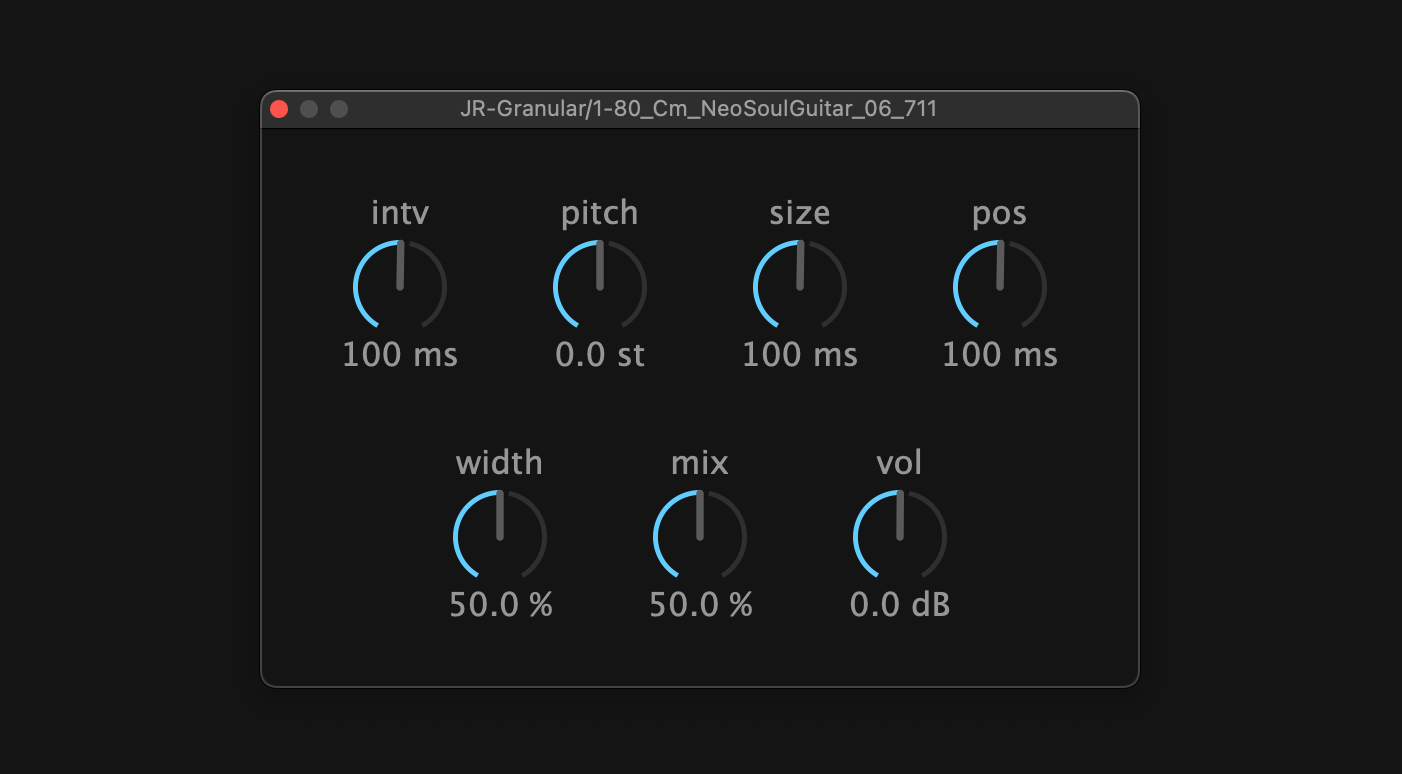
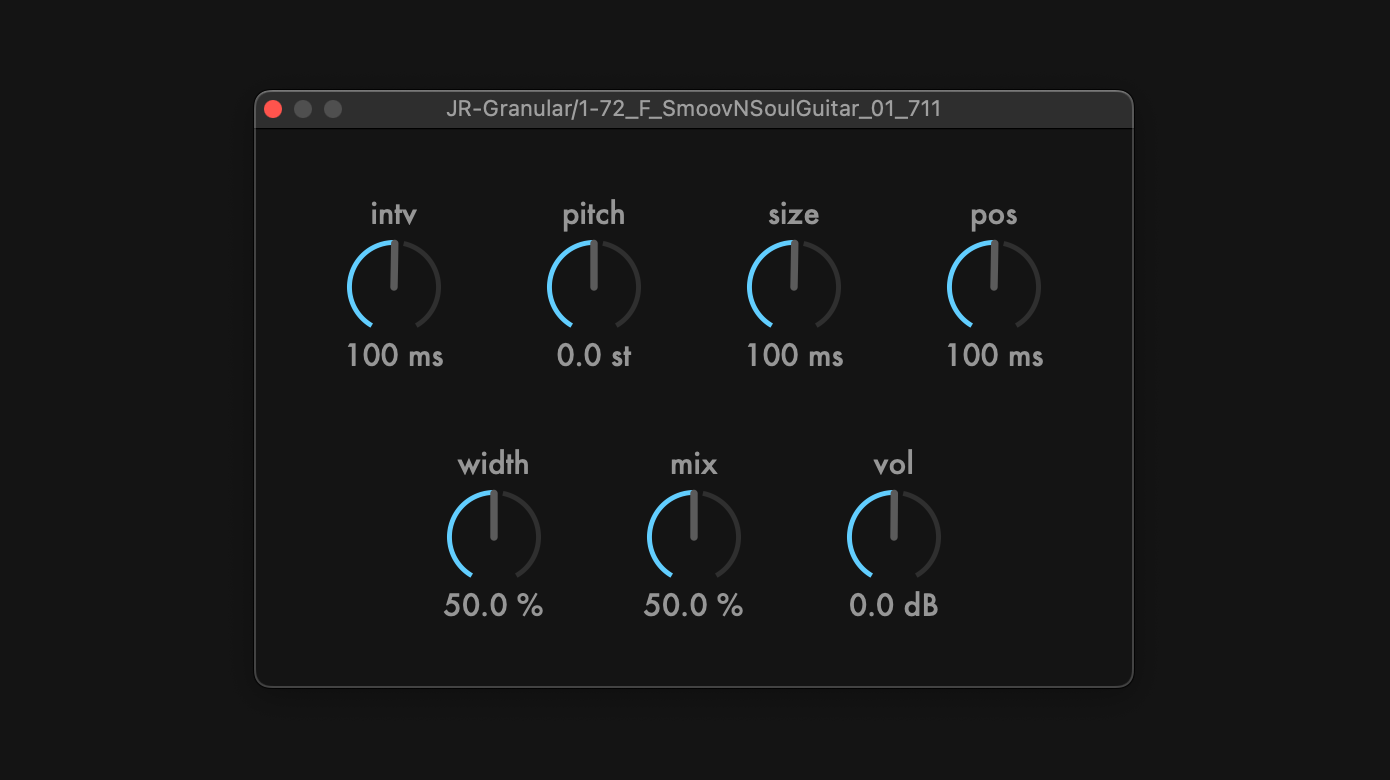
Add content about font embedding

diff --git a/posts/jr-granular.md b/posts/jr-granular.md
@@ -948,10 +948,83 @@ void JRGranularAudioProcessorEditor::resized()
 }
 ```
 
+### Embedding a custom font
+
+The font embedded in JR-Granular is FuturaMedium.ttf font, which is automatically [installed](https://support.apple.com/en-us/HT212587) in macOS.
+
+Launch Font Book application and look for Futura Medium Font.
+
+![futura-medium.png](/images/jr-granular/futura-medium.png)
+
+Use Finder application to show where this font is on your system. You can find the .ttc file in this way:
+
+![find-ttc.png](/images/jr-granular/find-ttc.png)
+
+A .ttc file is like a collection of .ttf files, and in the case of Futura.ttc, it contains the following .ttf files:
+
+- Futura-Medium.ttf
+- Futura-MediumItalic.ttf
+- Futura-Bold.ttf
+- Futura-CondensedMedium.ttf
+- Futura-CondensedExtraBold.ttf
+
+Since we only want to use Futura-Medium.ttf, use the tool below to break down the .ttc file into multiple .ttf files and download only the Futura-Medium.ttf.
+
+- [Transfonter](https://transfonter.org/ttc-unpack)
+
+![transfonter.png](/images/jr-granular/transfonter.png)
+
+Create Resources directory, rename the downloaded Futura-Medium-01.ttf to FuturaMedium.ttf and place it under the directory.
+
+```text:CommandLine
+$ mkdir Resources
+$ mv ~/Downloads/Futura-Medium-01.ttf Resources/FuturaMedium.ttf
+```
+
+After these settings, your directory structure should look something like this:
+
+![dir-structure.png](/images/jr-granular/dir-structure.png)
+
+Go to the CMakeLists.txt, add juce_add_binary_data function and edit target_link_libraries function:
+
+```text:CMakeLists.txt
+juce_add_binary_data(BinaryData
+    SOURCES
+        Resources/FuturaMedium.ttf)
+
+target_link_libraries("${PROJECT_NAME}"
+    PRIVATE
+        BinaryData
+        juce::juce_audio_utils
+        juce::juce_recommended_config_flags
+        juce::juce_recommended_lto_flags
+        juce::juce_recommended_warning_flags)
+```
+
+Finally, add the following code in the constructor of the plugin editor.
+
+```c++:pluginEditor.cpp
+JRGranularAudioProcessorEditor::JRGranularAudioProcessorEditor (JRGranularAudioProcessor& p,
+                                                                juce::AudioProcessorValueTreeState& state,
+                                                                juce::UndoManager& um)
+...
+{
+    auto futuraMedium = juce::Typeface::createSystemTypefaceFor (BinaryData::FuturaMedium_ttf, 
+                                                                 BinaryData::FuturaMedium_ttfSize);
+    juce::LookAndFeel::getDefaultLookAndFeel().setDefaultSansSerifTypeface (futuraMedium);
+...
+}
+```
+
 ### Building
 
 All done! Build and run it on your DAW.
 
+```text:CommandLine
+$ rm -rf build
+$ cmake -S . -B build -DCMAKE_BUILD_TYPE=Release
+$ cmake --build build --config Release
+```
 ![finish.png](/images/jr-granular/finish.png)
 
 ## Closing
